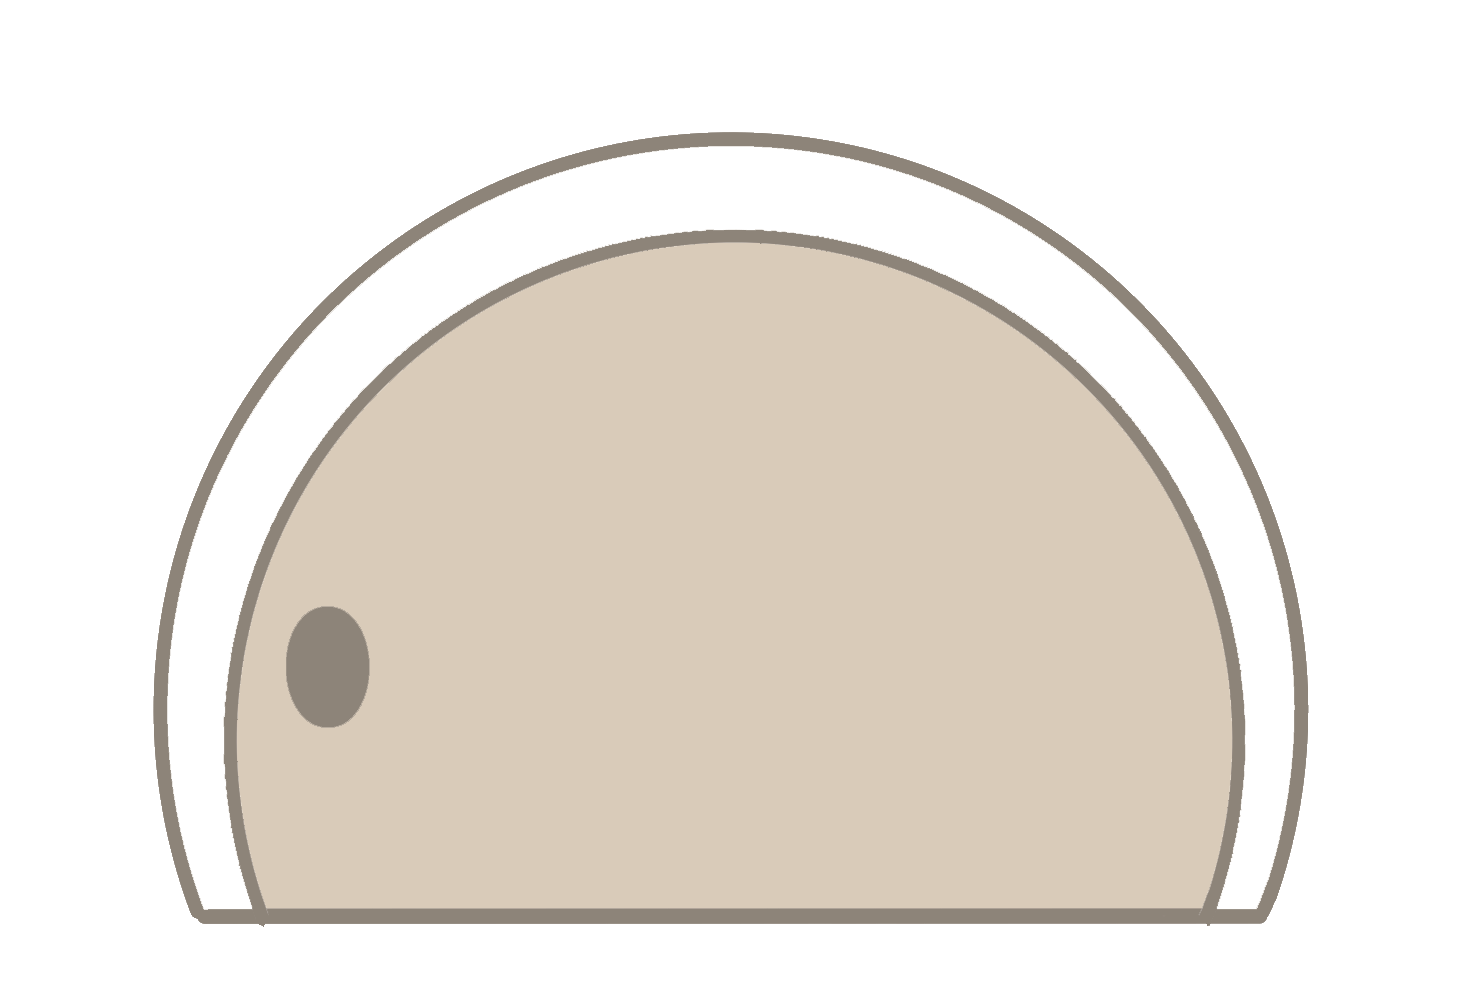
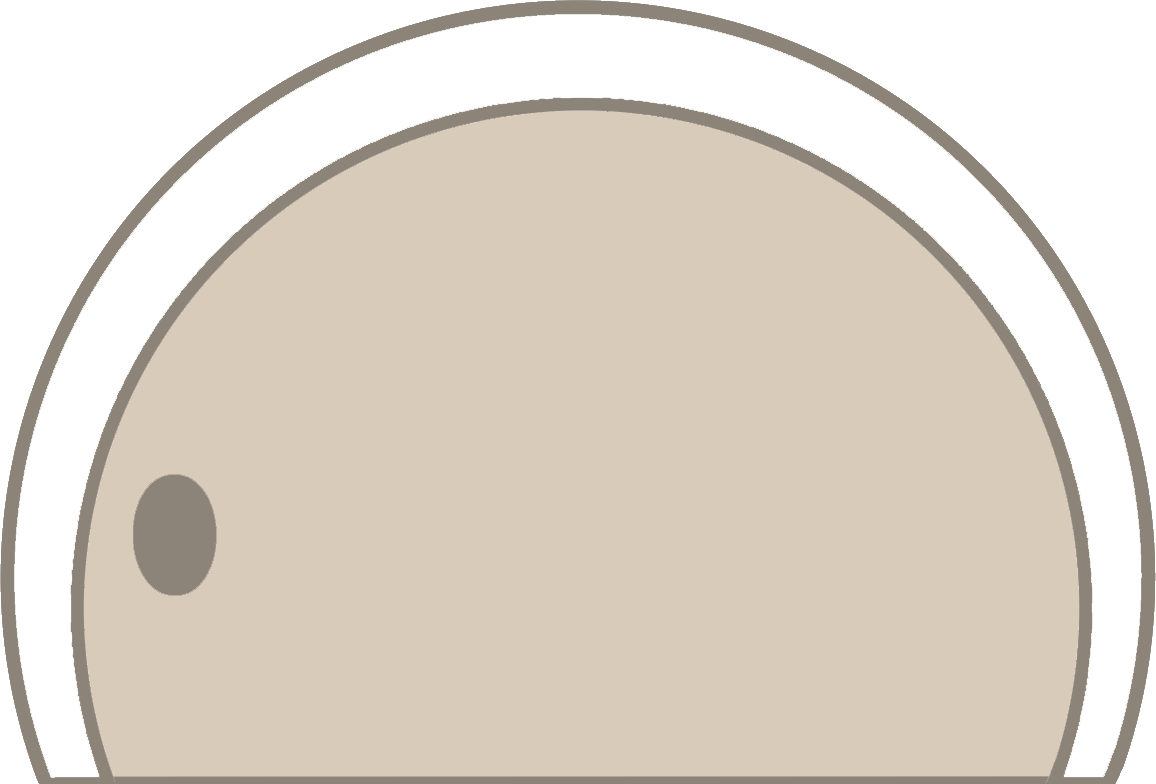
login + working on connecting the client and the server authorization

diff --git a/client/src/App.css b/client/src/App.css
@@ -46,7 +46,7 @@ body {
   flex: 1;
   display: flex;
   justify-content: center;
-  align-items: center;
+  /* align-items: center; */
 }
 
 button,
@@ -84,20 +84,19 @@ li {
   display: flex;
   flex-direction: column;
   align-items: center;
+  justify-content: flex-end;
   width: 60rem;
 }
 
 .home__door {
-  display: flex;
-  flex-direction: column;
-  align-items: center;
-  justify-content: flex-end;
   position: relative;
+  text-align: center;
+  margin-top: 4rem;
 }
 
 .home__door-heading {
   position: absolute;
-  top: 38%;
+  top: 35%;
   left: 39%;
   background-color: var(--text-color);
   border-radius: 10px;
@@ -121,7 +120,7 @@ li {
 }
 
 .home__door-img {
-  width: 100%;
+  width: 90%;
 }
 
 /* Navigation */
@@ -166,53 +165,68 @@ li {
   margin-right: 4rem;
 }
 
-/* Sign Up */
-.signup {
+/* Sign Up && Log In */
+.form-container {
   margin: 10rem 0;
   padding: 3rem;
   width: 50rem;
 }
 
-.signup__header {
+.signup__header,
+.login__header,
+.login__direction {
   display: flex;
   flex-direction: column;
   align-items: center;
+  margin-bottom: 1.8rem;
 }
 
-.signup__header-heading {
+.signup__header-heading,
+.login__header-heading {
   margin: 1rem 0;
 }
 
-.signup__header-link {
+.signup__header-link,
+.login__header-link {
   color: var(--text-color-highlight);
   border-bottom: groove;
   margin-left: 1rem;
   text-transform: uppercase;
 }
 
-.signup__group {
+.signup__group,
+.login__group {
   display: flex;
   flex-direction: column;
   margin-bottom: 2rem;
 }
 
-.signup__label {
+.signup__label,
+.login__label {
   font-size: 1.9rem;
   margin-bottom: 0.1rem;
 }
 
-.signup__input {
+.signup__input,
+.login__input {
   border: 3px solid var(--text-color-highlight);
   height: 3.5rem;
   font-size: 1.9rem;
+  padding: 1.5rem 1rem;
 }
 
-.signup__button {
+.signup__button,
+.login__button {
   width: 100%;
   font-size: 2rem;
   padding: 0.8rem;
   color: white;
   background-color: var(--text-color);
+  margin-top: 1rem;
+}
+
+.login__direction {
+  margin-top: 2.3rem;
 }
 
 /* Footer */
@@ -220,6 +234,8 @@ li {
   background-color: var(--primary-color);
   height: 5rem;
   border-top: 4px solid var(--text-color-highlight);
+  margin-top: -6px;
+  z-index: 1;
 }
 
 .footer__img {

diff --git a/client/src/components/auth/Login.js b/client/src/components/auth/Login.js
@@ -1,7 +1,70 @@
-import React from 'react';
+import React, { useState } from 'react';
+import { Link } from 'react-router-dom';
 
 const Login = () => {
-  return <div>login</div>;
+  const [user, setUser] = useState({
+    email: '',
+    password: '',
+  });
+
+  const { email, password } = user;
+
+  const changeForLogIn = (e) => {
+    setUser({
+      ...user,
+      [e.target.name]: e.target.value,
+    });
+  };
+
+  return (
+    <div className="login form-container">
+      <div className="login__header">
+        <h2 className="login__header-heading heading-1">Log In</h2>
+      </div>
+
+      <form>
+        <div className="login__group">
+          <label htmlFor="email" className="login__label">
+            Email Address
+          </label>
+          <input
+            className="login__input"
+            type="email"
+            name="email"
+            value={email}
+            onChange={changeForLogIn}
+            required
+          />
+        </div>
+
+        <div className="login__group">
+          <label htmlFor="password" className="login__label">
+            Password
+          </label>
+          <input
+            className="login__input"
+            type="password"
+            name="password"
+            value={password}
+            onChange={changeForLogIn}
+            required
+            minLength="6"
+          />
+        </div>
+
+        <input type="submit" value="Log In" className="login__button" />
+      </form>
+
+      <div className="login__direction">
+        <h4 className="login__direction--heading heading-2">
+          No Account?{' '}
+          <Link to="/signup" className="login__header-link">
+            Create one here
+          </Link>
+        </h4>
+      </div>
+    </div>
+  );
 };
 
 export default Login;

diff --git a/server/middleware/authorization.js b/server/middleware/authorization.js
@@ -1,8 +1,20 @@
 const jwt = require('jsonwebtoken');
+const {promisify} = require('util');
+const User = require('../models/User');
 
 module.exports = function (req, res, next) {
   //Get token from header
-  const token = req.header('auth-token');
+  // const token = req.headers('x-auth-token');
+
+  let token;
+  if (
+    req.headers.authorization &&
+    req.headers.authorization.startsWith('Bearer')
+  ) {
+    token = req.headers.authorization.split(' ')[1];
+  } else if (req.cookies.jwt) {
+    token = req.cookies.jwt;
+  }
 
   //Check if not token
   if (!token) {
@@ -13,9 +25,15 @@ module.exports = function (req, res, next) {
 
   try {
     //entrie payload
-    const decoded = jwt.verify(token, process.env.TOKEN_SECRET);
+    const decoded = await promisify(jwt.verify)(token, process.env.TOKEN_SECRET);
 
-    req.user = decoded.user;
+    const checkUser = await User.findbyId(decoded.user);
+    if(!checkUser){
+      res.status(401).json({ status: 'fail', msg: 'The user does no longer exist' });
+    }
+    
+
+    req.user = checkUser;
 
     next();
   } catch (err) {

diff --git a/server/controllers/userController.js b/server/controllers/userController.js
@@ -6,6 +6,18 @@ const createSendToken = (user, statusCode, req, res) => {
   const token = jwt.sign({ user: user._id }, process.env.TOKEN_SECRET, {
     expiresIn: 3600,
   });
+  const cookieOption = {
+    expires: new Date(
+      Date.now() + process.env.JWT_COOKIE_EXPIRES_IN * 24 * 60 * 60 * 1000
+    ),
+    httpOnly: true,
+  };
+
+  if (process.env.NODE_ENV === 'production') {
+    cookieOption.secure = true;
+  }
+
+  res.cookie('jwt', token, cookieOption);
 
   // Remove password from output
   user.password = undefined;
@@ -64,7 +76,7 @@ exports.login = async (req, res) => {
 
   try {
     //Check if the email exists
-    const user = await User.findOne({ email });
+    const user = await User.findOne({ email }).select('+password');
     if (!user || !(await user.correctPassword(password, user.password))) {
       return res.status(401).json({
         msg: 'Incorrect email or password',

diff --git a/client/src/components/auth/Signup.js b/client/src/components/auth/Signup.js
@@ -18,8 +18,12 @@ const Signup = () => {
     });
   };
 
+  const submitSignUp = (e) => {
+    e.preventDefault();
+  };
+
   return (
-    <div className="signup">
+    <div className="signup form-container">
       <div className="signup__header">
         <h2 className="signup__header-heading heading-1">Sign Up</h2>
         <h4 className="signup__header-heading heading-2">
@@ -30,7 +34,7 @@ const Signup = () => {
         </h4>
       </div>
 
-      <form>
+      <form onSubmit={submitSignUp}>
         <div className="signup__group">
           <label htmlFor="name" className="signup__label">
             Name

diff --git a/server/server.js b/server/server.js
@@ -1,6 +1,7 @@
 const express = require('express');
 const cors = require('cors');
 const app = express();
+const helmet = require('helmet');
 
 const connection = require('./db/connection.js');
 
@@ -9,6 +10,7 @@ const recipeRouter = require('./routes/recipeRoutes');
 const userRouter = require('./routes/userRoutes');
 
 //Middleware
+app.use(helmet());
 app.use(express.urlencoded({ extended: true }));
 app.use(express.json({ extended: true }));
 app.use(cors());

diff --git a/server/models/User.js b/server/models/User.js
@@ -14,6 +14,7 @@ const userSchema = new mongoose.Schema({
   password: {
     type: String,
     required: true,
+    select: false,
   },
   date: {
     type: Date,
